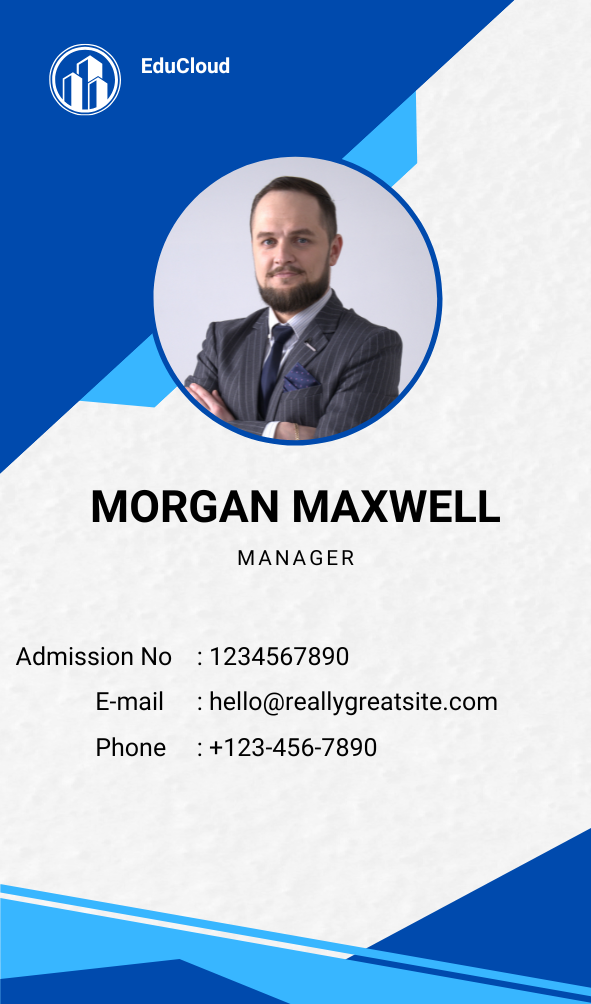
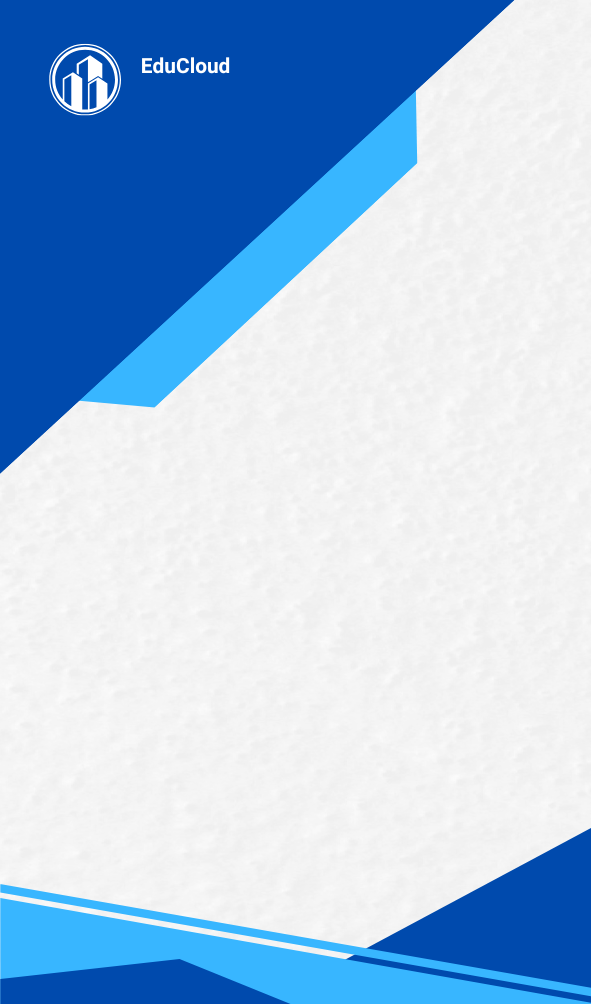
feat: add routes for certificate and ID card; update ID card layout and styles

diff --git a/src/Frontend/Components/Cards/IDCard.jsx b/src/Frontend/Components/Cards/IDCard.jsx
@@ -58,7 +58,7 @@ const IDCardGenerator = () => {
 const fetchStudents = async (classId) => {
     setLoading(true);
     try {
-      const response = await axios.get(`${url}student/getstudentbyclassid/:${classId}`);
+      const response = await axios.get(`${url}student/getstudentbyclassid/${classId}`);
       setStudents(response.data.data.students);
     } catch (error) {
       console.error("Error fetching students:", error);
@@ -75,10 +75,13 @@ const fetchStudents = async (classId) => {
   const fetchStudentById = async (studentId) => {
     setLoading(true);
     try {
+      console.log(studentId)
       const response = await axios.get(
         `https://school-backend-ocze.onrender.com/api/v1/student/getstudentbyid/${studentId}`
       );
-      setStudent([response.data.student]);
+   
+      setStudent(response.data.data.student);
+      
     } catch (error) {
       console.error("Error fetching student:", error);
       setMessage("Failed to fetch student");
@@ -116,7 +119,6 @@ const fetchStudents = async (classId) => {
           transformOrigin: 'top left'
         }
       });
-      console.log(dataUrl)
       
       const MyDocument = () => (
         <Document>
@@ -258,10 +260,10 @@ const fetchStudents = async (classId) => {
   <div className="border rounded-md p-4 bg-gray-50 flex justify-center">
     <div
       ref={idCardRef}
-      className="relative w-full max-w-md aspect-[9/16] bg-white text-black"
+      className="relative w-full max-w-sm aspect-[9/13] bg-white text-black"
       style={{
         backgroundImage: "url('/IDCard.png')",
-        backgroundSize: 'contain',
+        backgroundSize: '100% 100%',
         backgroundPosition: 'center',
         backgroundRepeat: 'no-repeat',
         fontFamily: "'Roboto', sans-serif"
@@ -273,36 +275,36 @@ const fetchStudents = async (classId) => {
       </div>
       
       {/* Profile Photo */}
-      <div className="absolute" style={{ top: '20%', left: '50%', transform: 'translateX(-50%)' }}>
+      <div className="absolute" style={{ top: '22%', left: '50%', transform: 'translateX(-50%)' }}>
         {userPhoto ? (
           <img 
             src={userPhoto} 
             alt="Profile Photo" 
-            className="rounded-full w-32 h-32 object-cover border-4 border-blue-600" 
+            className="rounded-full w-20 h-20 object-cover border-4 border-blue-600" 
           />
         ) : (
-          <div className="rounded-full w-32 h-32 bg-gray-200 flex items-center justify-center">
-            <User size={48} />
+          <div className="rounded-full w-20 h-20 bg-gray-200 flex items-center justify-center">
+            <User size={32} />
           </div>
         )}
       </div>
       
       {/* Name and Position */}
-      <div className="absolute w-full text-center" style={{ top: '50%' }}>
-        <h2 className="text-3xl font-bold text-black">{student.name || 'FULL NAME'}</h2>
+      <div className="absolute w-full text-center" style={{ top: '45%' }}>
+        <h2 className="text-xl font-bold text-black">{student.name || 'FULL NAME'}</h2>
       </div>
       
       {/* User Details */}
-      <div className="absolute w-full px-8" style={{ top: '65%' }}>
-        <div className="flex justify-between mb-2">
+      <div className="absolute w-full px-4" style={{ top: '55%' }}>
+        <div className="flex justify-between mb-1">
           <span className="font-medium">Admission No</span>
-          {/* <span>: {userAdmissionNo || '1234567890'}</span> */}
+          <span>: {student.admissionNo || '1234567890'}</span>
         </div>
-        <div className="flex justify-between mb-2">
+        <div className="flex justify-between mb-1">
           <span className="font-medium">E-mail</span>
           <span>: {student.email || 'user@example.com'}</span>
         </div>
-        <div className="flex justify-between mb-2">
+        <div className="flex justify-between mb-1">
           <span className="font-medium">Phone</span>
           <span>: {student.parentContact || '+123-456-7890'}</span>
         </div>
@@ -314,10 +316,7 @@ const fetchStudents = async (classId) => {
       </div>
     </div>
   </div>
-</div>
-      </div>
-    </div>
-  );
-};
+</div>      </div>
+    </div>  );};
 
 export default IDCardGenerator;

diff --git a/src/Frontend/Components/Navbar/Navbar.jsx b/src/Frontend/Components/Navbar/Navbar.jsx
@@ -28,6 +28,7 @@ import LeaderBoard from "../../Pages/Mark/LeaderBoard";
 import UnderMaintenance from "../../Pages/UnderMaintence"; 
 import AllComplaints from '../../Pages/Complaints/AllComplaint';
 import StudentComplaints from '../../Pages/Complaints/StudentComplaintDetails'
+import CertificateGenerator from '../Cards/Certificate'
 // import AddMark from "../../Pages/Mark/AddMark";  
  
 import {
@@ -140,6 +141,7 @@ const Sidebar = ({ isOpen, role, onMenuClick }) => {
           { label: "All Students", id: "all-students", path: "/all-students" },
           { label: "Add Marks", id: "add-marks", path: "/add-marks" },
           { label: "ID Card", id: "id-card", path: "/id-card" },
+          { label: "Certificate", id: "certificate", path: "/certificate" },
         ],
       },
       {
@@ -437,6 +439,7 @@ const Nav = ({ children, path }) => {
         {path === "/finance" && <UnderMaintenance />}
         {path === "/complaints" && <AllComplaints/>}
         {path === "/my-complaints" && <StudentComplaints/>}
+        {path === "/certificate" && <CertificateGenerator/>}
       </div>
 
       <main

diff --git a/src/App.jsx b/src/App.jsx
@@ -159,6 +159,14 @@ function App() {
       path:'/my-complaints',
       element:<Nav path={"/my-complaints"}/>
     },
+    {
+      path:'/certificate',
+      element:<Nav path={"/certificate"}/>
+    },
+    {
+      path:'/id-card',
+      element:<Nav path={"/id-card"}/>
+    },
     
     {
       path:'/under-maintenance',
